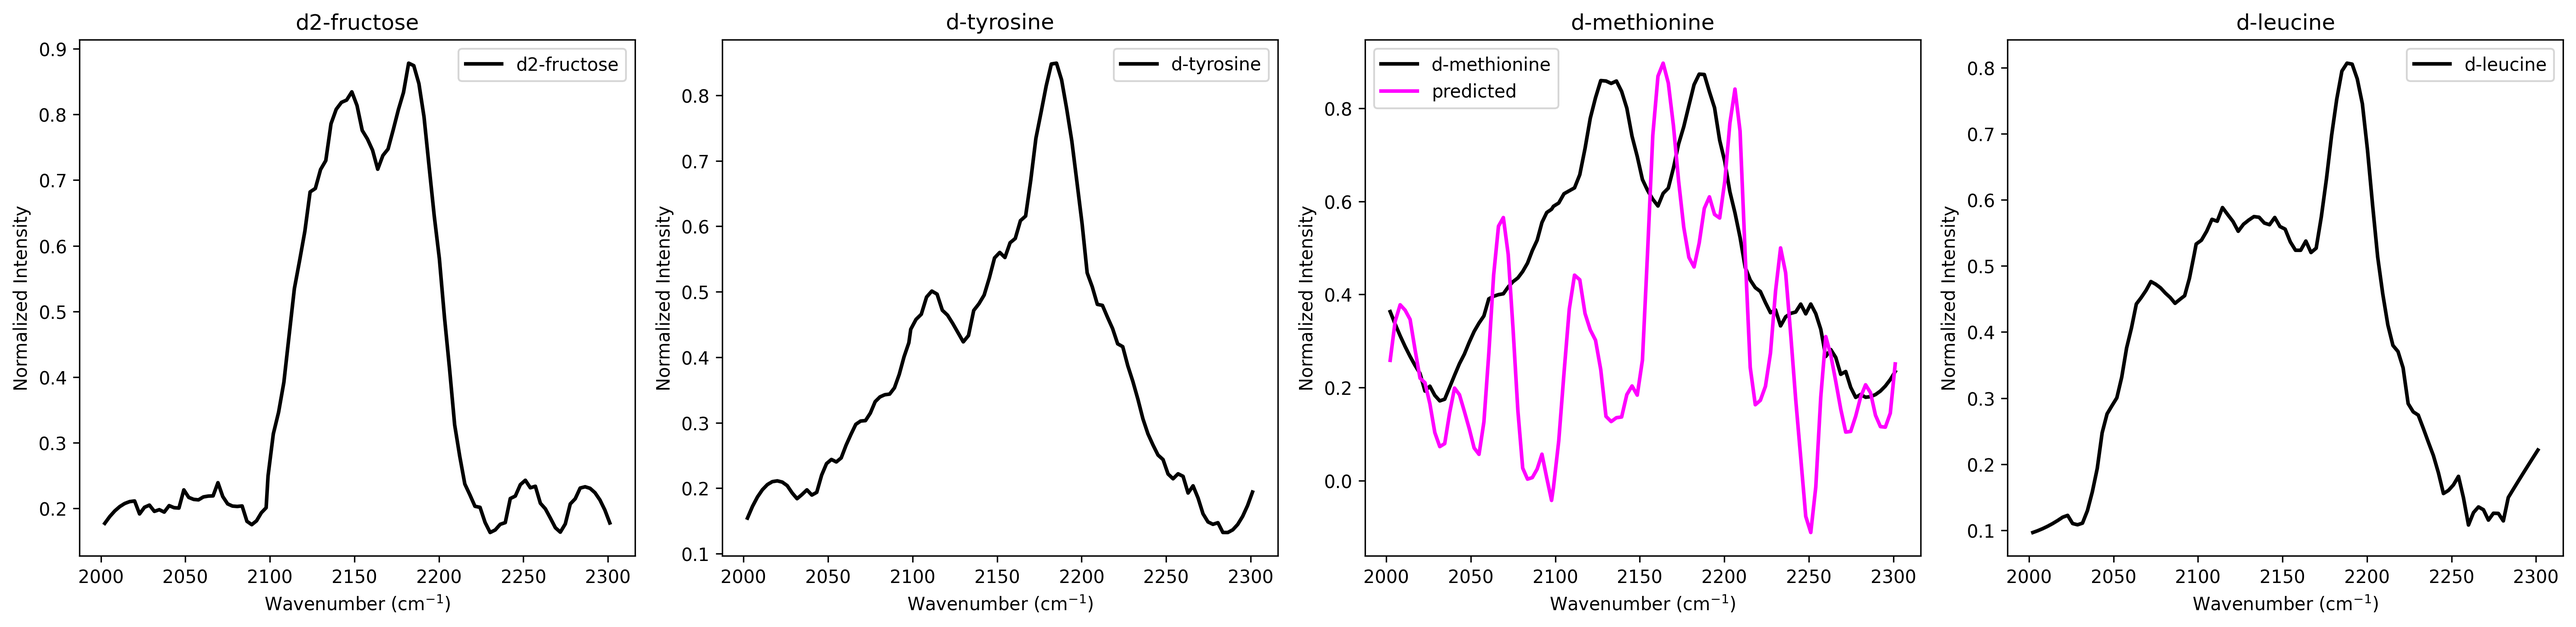
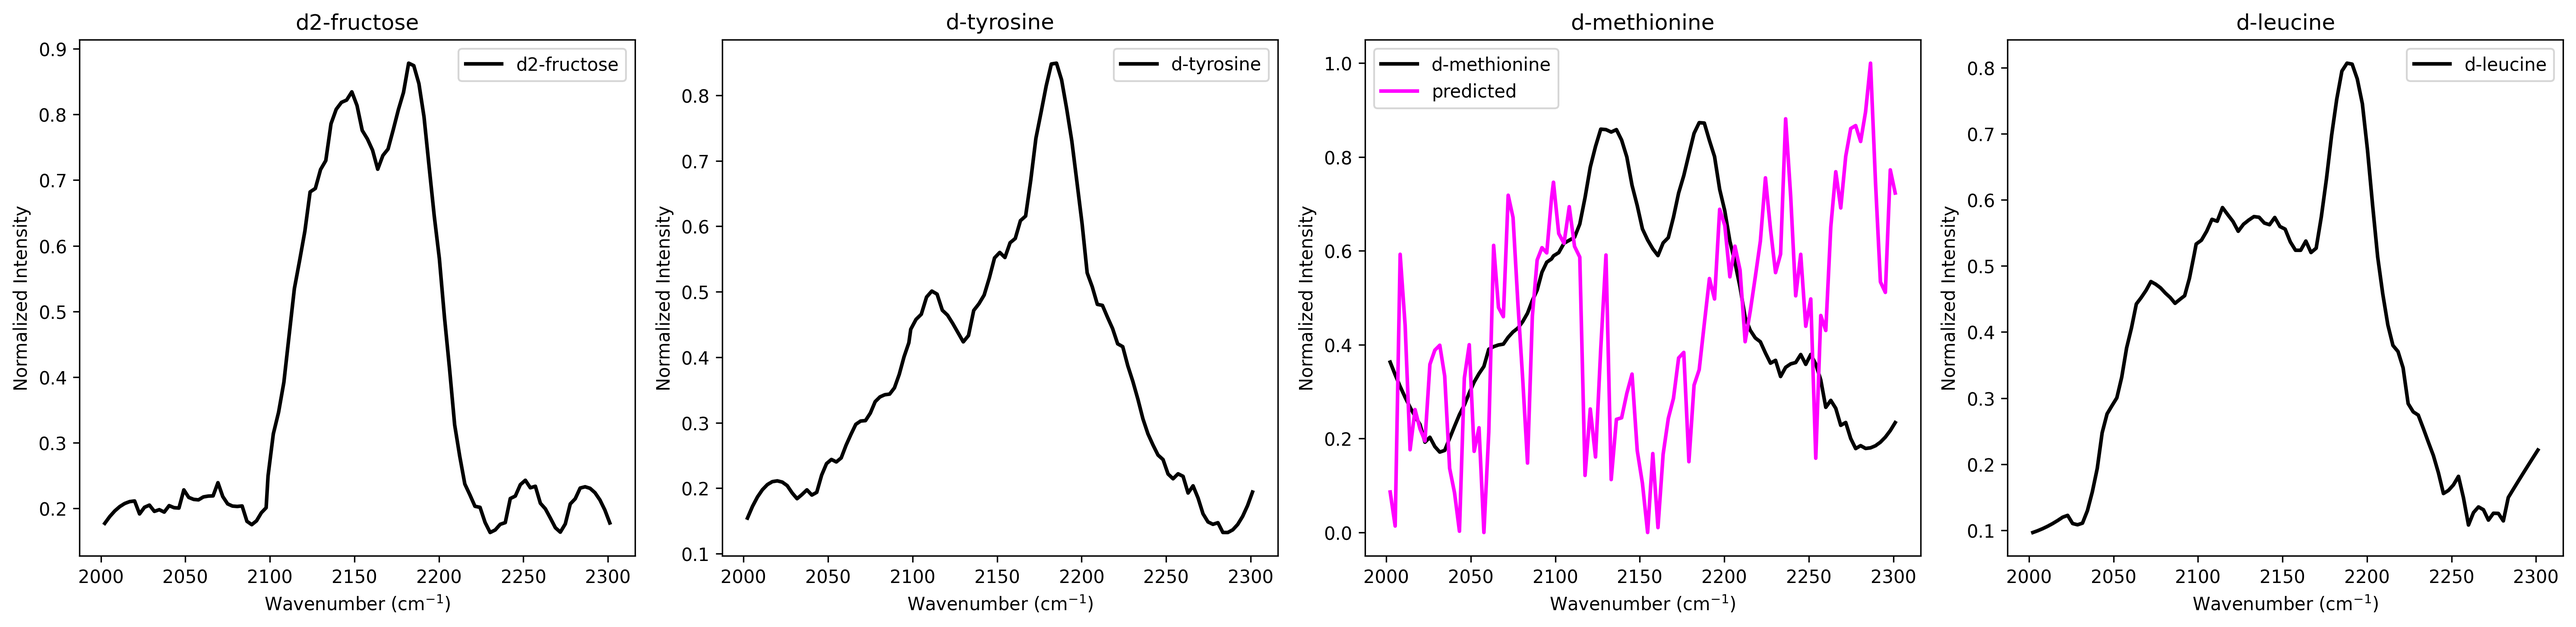
Moved those spectra preprocessing functions to utils.py

Changed region(s): [[0.5299, 0.1239, 0.7481, 0.8362], [0.7169, 0.1858, 0.7481, 0.2478]]

diff --git a/hsi_infer.py b/hsi_infer.py
@@ -10,6 +10,7 @@ import tifffile
 import torch
 from scipy import sparse
 from scipy.interpolate import interp1d
+from scipy.ndimage import minimum_filter
 from scipy.sparse.linalg import spsolve
 from tqdm import tqdm
 
@@ -65,18 +66,42 @@ class HSIPredictor:
         name_to_idx = {name: idx for idx, name in enumerate(self.ref["name"].unique())}
         return {name: name_to_idx[name] for name in self.target}
 
-    def baseline_als(self, y: np.ndarray, lam=10**4, p=0.05, niter=15):
-        """Asymmetric Least Squares baseline correction"""
+    def airpls_baseline(self, y: np.ndarray, lam: float = 1e3, niter: int = 15, tol: float = 1e-3):
+        """
+        Adaptive Iteratively Reweighted Penalized Least Squares (airPLS) baseline correction
+        Reference: Zhang ZM, Chen S, Liang YZ. Baseline correction using adaptive iteratively reweighted penalized least squares. Analyst. 2010.
+
+        Parameters:
+            y: Input spectrum
+            lam: Smoothness parameter (larger = smoother)
+            niter: Maximum iterations
+            tol: Convergence tolerance
+
+        Returns:
+            corrected: Baseline corrected spectrum
+            baseline: Estimated baseline
+        """
+        y = y.copy()
         L = len(y)
         D = sparse.diags([1, -2, 1], [0, -1, -2], shape=(L, L - 2))
         w = np.ones(L)
-        y = np.asarray(y)
 
-        for i in range(niter):
+        for _ in range(niter):
             W = sparse.spdiags(w, 0, L, L)
             Z = W + lam * D.dot(D.transpose())
             z = spsolve(Z, w * y)
-            w = p * (y > z) + (1 - p) * (y < z)
+            d = y - z
+            dn = d[d < 0]
+            if len(dn) == 0:
+                break
+
+            max_residual = np.max(np.abs(dn))
+            if max_residual < tol:
+                break
+
+            w_new = np.exp(2 * (d / dn.mean()))
+            w = np.where(d < 0, w_new, 0)
+            w = np.clip(w, 1e-6, 1e6)
 
         return y - z
 
@@ -90,7 +115,7 @@ class HSIPredictor:
             return spectrum / max_val
         return spectrum
 
-    def smooth_spectrum(self, spectrum: np.ndarray, lamda=0.5):
+    def smooth_spectrum(self, spectrum: np.ndarray, lamda=20):
         """Smooth spectrum using Whittaker smoother"""
         if np.all(spectrum == 0):
             return spectrum
@@ -116,13 +141,7 @@ class HSIPredictor:
         if np.all(spectrum == 0):
             return np.zeros(len(self.wavenumbers))
 
-        f = interp1d(
-            orig_wavenumbers,
-            spectrum,
-            kind="cubic",
-            bounds_error=False,
-            fill_value=(spectrum[0], spectrum[-1]),
-        )
+        f = interp1d(orig_wavenumbers, spectrum, kind="cubic", bounds_error=False, fill_value=0)
         return f(self.wavenumbers)
 
     def predict_hsi(self, image_path: str, output_dir: str):
@@ -140,7 +159,7 @@ class HSIPredictor:
         background_mask = background_mask.reshape(height, width)
 
         spectra = self.original_spectra.copy()
-        processed_spectra = np.zeros((len(self.wavenumbers), height * width))
+        self.processed_spectra = np.zeros((len(self.wavenumbers), height * width))
         predictions = []
         spectra_by_type = {name: [] for name in self.target}
 
@@ -152,7 +171,7 @@ class HSIPredictor:
             batch = spectra[i:end_idx]
             batch = np.array([self.preprocess_spectrum(s) for s in batch])
             processed_batch = np.array([self.interpolate_spectrum(s, self.img_wavenumbers) for s in batch])
-            processed_spectra[:, i : i + len(processed_batch)] = processed_batch.T
+            self.processed_spectra[:, i : i + len(processed_batch)] = processed_batch.T
             with torch.no_grad():
                 batch_tensor = torch.FloatTensor(processed_batch).to(self.device)
                 batch_tensor = batch_tensor.unsqueeze(1)
@@ -164,9 +183,9 @@ class HSIPredictor:
                 probs = torch.softmax(output, dim=1)
                 predictions.append(probs.cpu().numpy())
 
-        predictions = np.concatenate(predictions, axis=0)
+        self.predictions = np.concatenate(predictions, axis=0)
         for name, model_idx in self.target_indices.items():
-            pred_probs = predictions[:, model_idx]
+            pred_probs = self.predictions[:, model_idx]
             print(f"{name}:")
             print(f"  Max prob: {np.max(pred_probs):.4f}")
             print(f"  Mean prob: {np.mean(pred_probs):.4f}")
@@ -177,7 +196,7 @@ class HSIPredictor:
         merged_map = np.zeros((height, width, 3))
 
         for name, model_idx in self.target_indices.items():
-            prob_map = predictions[:, model_idx].reshape(height, width)
+            prob_map = self.predictions[:, model_idx].reshape(height, width)
             prob_map = np.where(prob_map > self.prob_thresh, prob_map, 0)
             prob_map[background_mask] = 0
             prediction_maps[name] = prob_map
@@ -202,7 +221,7 @@ class HSIPredictor:
             # Save grayscale TIFF
             tifffile.imwrite(os.path.join(output_dir, f"{name}_pred.tif"), (prob_map * 255).astype(np.uint8))
 
-            prob_values = predictions[:, model_idx].copy()
+            prob_values = self.predictions[:, model_idx].copy()
             prob_values[background_mask.flatten()] = 0
             mask = prob_values > self.prob_thresh
             if np.any(mask):
@@ -236,24 +255,36 @@ class HSIPredictor:
             ax.plot(self.wavenumbers, ref_spectrum, "k-", label=f"{subtype}", linewidth=2)
 
             if spectra_by_type[subtype]:
-                pred_spectra = []
-                for pixel_idx in spectra_by_type[subtype]:
-                    raw_spectrum = self.original_spectra[pixel_idx]
-                    # processed = self.baseline_als(raw_spectrum)
-                    # processed = self.normalize_spectrum(processed)
-                    # processed = self.smooth_spectrum(processed)
-                    interpolated = self.interpolate_spectrum(raw_spectrum, self.img_wavenumbers)
-                    pred_spectra.append(interpolated)
+                model_idx = self.target_indices[subtype]
+                pixel_indices = spectra_by_type[subtype]
 
-                pred_spectra = np.array(pred_spectra)
-                mean_spectrum = np.mean(pred_spectra, axis=0)
-                processed = self.baseline_als(mean_spectrum)
-                processed = self.normalize_spectrum(processed)
-                mean_spectrum = self.smooth_spectrum(processed)
+                # Get the highest probability pixel
+                probs = self.predictions[pixel_indices, model_idx]
+                max_idx = pixel_indices[np.argmax(probs)]
+                best_spectrum = self.processed_spectra[:, max_idx]
+                best_spectrum_raw = self.normalize_spectrum(best_spectrum)
+                best_spectrum = self.airpls_baseline(best_spectrum)
+                best_spectrum = self.normalize_spectrum(best_spectrum)
+                best_spectrum = self.smooth_spectrum(best_spectrum)
 
-                std_spectrum = np.std(pred_spectra, axis=0)
+                # pred_spectra = []
+                # for pixel_idx in spectra_by_type[subtype]:
+                #     raw_spectrum = self.original_spectra[pixel_idx]
+                #     # processed = self.baseline_als(raw_spectrum)
+                #     # processed = self.normalize_spectrum(processed)
+                #     # processed = self.smooth_spectrum(processed)
+                #     interpolated = self.interpolate_spectrum(raw_spectrum, self.img_wavenumbers)
+                #     pred_spectra.append(interpolated)
 
-                ax.plot(self.wavenumbers, mean_spectrum, color=color, label=f"predicted", linewidth=2)
+                # pred_spectra = np.array(pred_spectra)
+                # mean_spectrum = np.mean(pred_spectra, axis=0)
+                # processed = self.modpoly_baseline(mean_spectrum)
+                # processed = self.normalize_spectrum(processed)
+                # mean_spectrum = self.smooth_spectrum(processed)
+
+                # std_spectrum = np.std(pred_spectra, axis=0)
+
+                ax.plot(self.wavenumbers, best_spectrum, color=color, label=f"predicted", linewidth=2)
                 # ax.fill_between(
                 #     self.wavenumbers,
                 #     mean_spectrum - std_spectrum,
@@ -283,14 +314,11 @@ def main():
     parser.add_argument(
         "--image_path",
         type=str,
-        default="HSI_data/Result of 0116Plin1-2-sweep-830-860-100.tif",
+        default="HSI_data/Result of 0116WT-1-sweep-830-860-100.tif",
         help="Path to HSI image stack",
     )
     parser.add_argument(
-        "--output_dir",
-        type=str,
-        default="predicted_results/hsi_plin1_predict",
-        help="Directory to save results",
+        "--output_dir", type=str, default="predicted_results/hsi_wt_predict", help="Directory to save results"
     )
     parser.add_argument(
         "--target",

diff --git a/baseline_test.py b/baseline_test.py
@@ -1,0 +1,109 @@
+from typing import Tuple
+
+import matplotlib.pyplot as plt
+import numpy as np
+import tifffile
+from scipy import sparse
+from scipy.sparse.linalg import spsolve
+
+
+def airpls_baseline(
+    y: np.ndarray, lam: float = 1e3, niter: int = 15, tol: float = 1e-3
+) -> Tuple[np.ndarray, np.ndarray]:
+    """
+    Adaptive Iteratively Reweighted Penalized Least Squares (airPLS) baseline correction
+    Reference: Zhang ZM, Chen S, Liang YZ. Baseline correction using adaptive iteratively reweighted penalized least squares. Analyst. 2010.
+
+    Parameters:
+        y: Input spectrum
+        lam: Smoothness parameter (larger = smoother)
+        niter: Maximum iterations
+        tol: Convergence tolerance
+
+    Returns:
+        corrected: Baseline corrected spectrum
+        baseline: Estimated baseline
+    """
+    y = y.copy()
+    L = len(y)
+    D = sparse.diags([1, -2, 1], [0, -1, -2], shape=(L, L - 2))
+    w = np.ones(L)
+
+    for _ in range(niter):
+        W = sparse.spdiags(w, 0, L, L)
+        Z = W + lam * D.dot(D.transpose())
+        z = spsolve(Z, w * y)
+        d = y - z
+        dn = d[d < 0]
+        if len(dn) == 0:
+            break
+
+        max_residual = np.max(np.abs(dn))
+        if max_residual < tol:
+            break
+
+        w_new = np.exp(2 * (d / dn.mean()))
+        w = np.where(d < 0, w_new, 0)
+        w = np.clip(w, 1e-6, 1e6)
+
+    return y - z, z
+
+
+def load_and_process_image(image_path: str) -> Tuple[np.ndarray, np.ndarray]:
+    """Load HSI image and preprocess"""
+    image = tifffile.imread(image_path)
+    image = np.flip(image, axis=0)  # Flip image to match reference
+    background_mask = np.all(image == 0, axis=0)
+    return image, background_mask
+
+
+def random_sample_spectra(image: np.ndarray, background_mask, n_samples: int = 20) -> np.ndarray:
+    """Randomly sample pixel spectra"""
+    N, height, width = image.shape
+    pixels = image.reshape(N, -1).T
+    valid_indices = np.where(~background_mask.flatten())[0]
+
+    n_samples = min(n_samples, len(valid_indices))
+    if n_samples == 0:
+        raise ValueError("No valid pixels found for sampling")
+
+    selected_indices = np.random.choice(valid_indices, n_samples, replace=False)
+    return pixels[selected_indices]
+
+
+def plot_comparison(spectra: np.ndarray, wavenumbers: np.ndarray, method_name: str):
+    """Plot spectra with baselines"""
+    plt.figure(figsize=(15, 25))
+
+    for i in range(20):
+        ax = plt.subplot(10, 2, i + 1)
+        raw = spectra[i]
+
+        # Apply baseline correction
+        corrected, baseline = airpls_baseline(raw)
+
+        # Plotting
+        ax.plot(wavenumbers, raw, "k-", lw=1, alpha=0.7, label="Raw")
+        ax.plot(wavenumbers, baseline, "r--", lw=1, alpha=0.9, label="Baseline")
+        ax.plot(wavenumbers, corrected, "b-", lw=1, alpha=0.7, label="Corrected")
+
+        ax.set_xlim(wavenumbers[0], wavenumbers[-1])
+        ax.set_ylabel("Intensity")
+        if i % 2 == 0:
+            ax.legend(loc="upper right", fontsize=6)
+        if i >= 18:
+            ax.set_xlabel("Wavenumber (cm⁻¹)")
+
+    plt.suptitle(f"Baseline Correction Comparison - {method_name}", y=0.92)
+    plt.tight_layout()
+    plt.savefig(f"baseline_comparison.png", dpi=300, bbox_inches="tight")
+    plt.close()
+
+
+if __name__ == "__main__":
+    path = "HSI_data/Result of 0116Plin1-2-sweep-830-860-100.tif"
+    wavenumbers = np.linspace(2000, 2300, 97)
+
+    image, bg_mask = load_and_process_image(path)
+    sampled_spectra = random_sample_spectra(image, bg_mask, n_samples=20)
+    plot_comparison(sampled_spectra, wavenumbers, method_name="airPLS")

diff --git a/utils.py b/utils.py
@@ -4,11 +4,56 @@ from typing import List, Optional, Union
 import matplotlib.pyplot as plt
 import numpy as np
 import pandas as pd
+import rampy as rp
 import torch
+from scipy import sparse
 from scipy.interpolate import interp1d
+from scipy.sparse.linalg import spsolve
 from sklearn.manifold import TSNE
 
 from dataload import load_data
+
+
+def airpls_baseline(y: np.ndarray, lam: float = 1e3, niter: int = 15, tol: float = 1e-3):
+    """Adaptive Iteratively Reweighted Penalized Least Squares (airPLS) baseline correction"""
+    y = y.copy()
+    L = len(y)
+    D = sparse.diags([1, -2, 1], [0, -1, -2], shape=(L, L - 2))
+    w = np.ones(L)
+
+    for _ in range(niter):
+        W = sparse.spdiags(w, 0, L, L)
+        Z = W + lam * D.dot(D.transpose())
+        z = spsolve(Z, w * y)
+        d = y - z
+        dn = d[d < 0]
+        if len(dn) == 0:
+            break
+
+        max_residual = np.max(np.abs(dn))
+        if max_residual < tol:
+            break
+
+        w_new = np.exp(2 * (d / dn.mean()))
+        w = np.where(d < 0, w_new, 0)
+        w = np.clip(w, 1e-6, 1e6)
+
+    return y - z
+
+
+def normalize_spectrum(spectrum: np.ndarray):
+    """Normalize spectrum to max intensity"""
+    if np.all(spectrum == 0):
+        return spectrum
+    return spectrum / np.max(spectrum) if np.max(spectrum) != 0 else spectrum
+
+
+def smooth_spectrum(spectrum: np.ndarray, lamda=20):
+    """Smooth spectrum using Whittaker smoother"""
+    if np.all(spectrum == 0):
+        return spectrum
+    smoothed = rp.smooth(np.arange(len(spectrum)), spectrum, method="whittaker", Lambda=lamda)
+    return rp.smooth(np.arange(len(spectrum)), smoothed, method="whittaker", Lambda=lamda / 2)
 
 
 def convert_to_csv(xlsx_path, csv_path):
